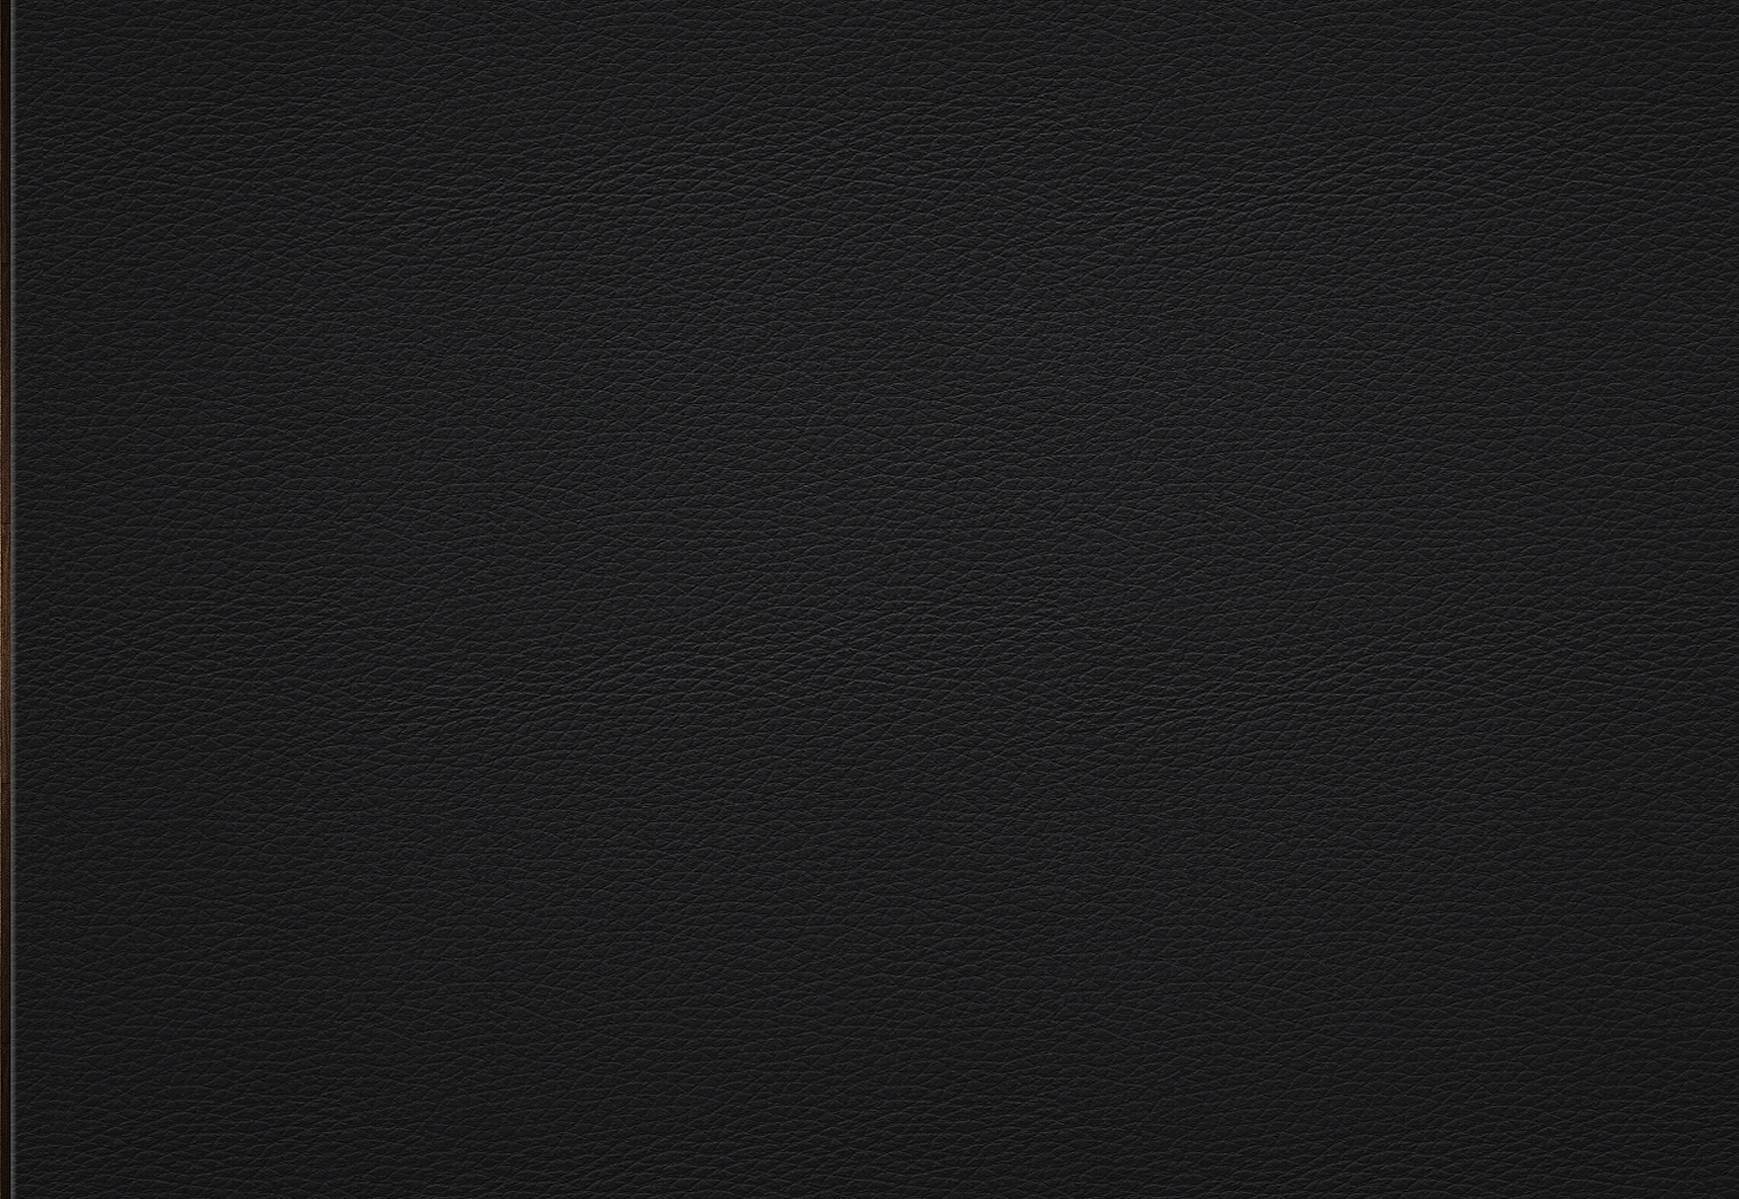
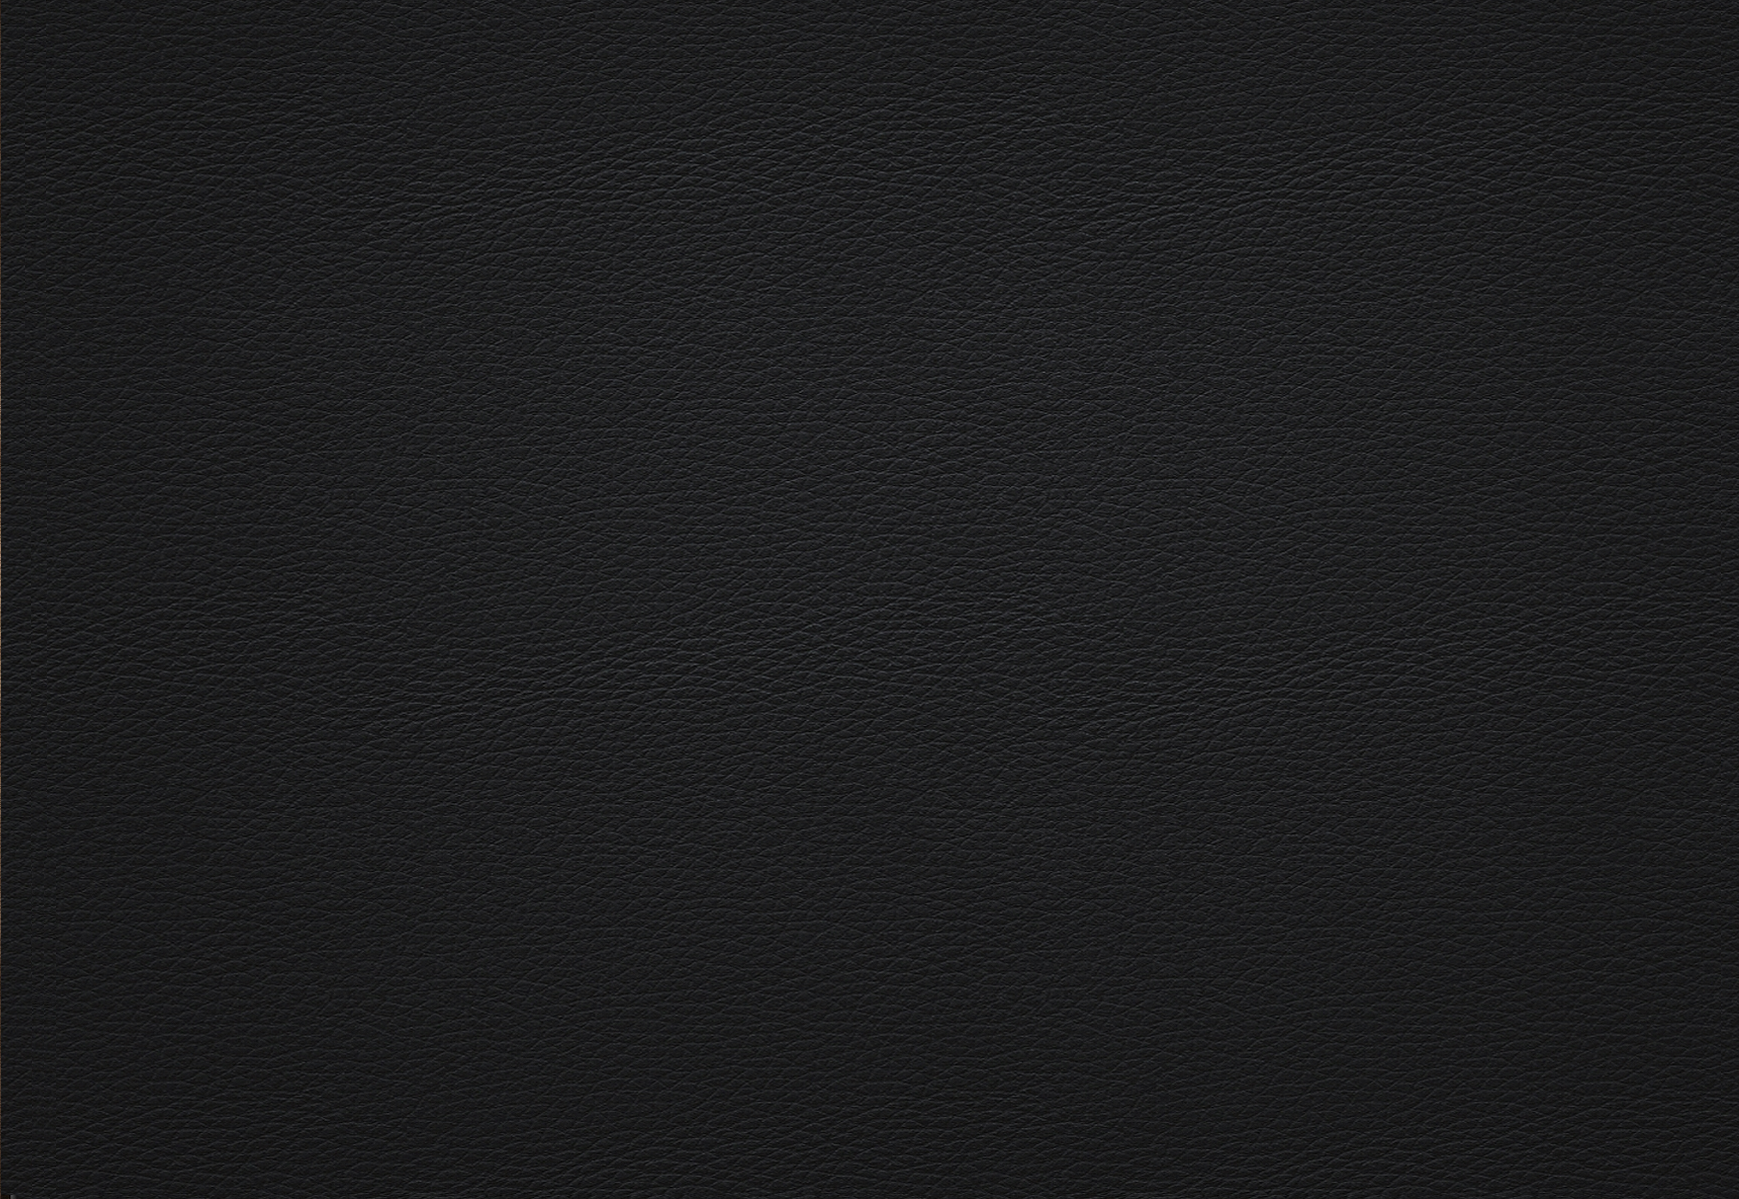
11/04/2022

diff --git a/index.html b/index.html
@@ -1,0 +1,29 @@
+<!DOCTYPE html>
+<html lang="es">
+<head>
+    <meta charset="UTF-8">
+    <meta http-equiv="X-UA-Compatible" content="IE=edge">
+    <meta name="viewport" content="width=device-width, initial-scale=1.0">
+    <link rel="stylesheet" href="/css/index.css">
+    <title>Apuntes Bootcamp Henry</title>
+</head>
+<body>
+    <div class="body">
+        <div class="titulo">Bootcamp Henry !!! 🚀 </div>
+        <div class="cuerpo">
+            <div class="menu">
+            <button class="button">Módulo 0 : Prep - Course</button>
+            <button class="button">Módulo 1 : Foundations</button>
+            <button class="button">Módulo 2 : Front - End</button>
+            <button class="button">Módulo 3 : Back - End</button>
+            <button class="button">Módulo 4 : Base de Datos</button>
+            </div>
+            <div class="notas">
+                <H3 class="Subtitulos">HALF ADDER <i>(Medio sumador)</i></h3>
+                    
+                    Lorem ipsum dolor sit amet consectetur adipisicing elit. Porro deserunt sit fugit commodi eveniet exercitationem similique, recusandae laborum quaerat atque, aperiam aliquid odio ut minima officiis nam sequi aliquam explicabo animi earum non rem! Eos accusantium fugit qui sed corporis, iusto rem eveniet possimus tempora sint tenetur, incidunt tempore beatae, deleniti est consectetur non ipsa! Numquam quaerat eligendi perferendis, laboriosam laudantium magnam? Eius hic quos explicabo deserunt commodi iusto aspernatur pariatur alias facilis, similique quisquam mollitia deleniti quae rerum veritatis ea officiis possimus! Laborum, nobis! Temporibus doloremque rem consectetur ullam officia ab dolorem fuga nemo, ratione illum, eligendi odit aspernatur dolores? Iste, similique laborum. Maiores voluptatem illo cumque expedita sit iste impedit exercitationem culpa deserunt eos quidem aperiam ea tempore, veniam sunt, amet molestiae fugiat quo dolorum odit! Modi, temporibus minus error sint ex numquam quo amet cum corrupti, nesciunt officia, veniam atque. Magni molestias odio minima enim ea, necessitatibus optio ullam quasi! Corrupti, magni voluptatibus! Quo ea, nisi veniam possimus ducimus pariatur ex amet repellat dolores animi repellendus eligendi, iusto consectetur facilis ratione eaque sapiente accusantium nam. Voluptatum voluptates dolore eveniet quaerat ducimus eaque numquam. Vero est quo delectus, ut tenetur voluptate quia eius similique, accusantium deleniti sequi ipsam.      
+            </div>
+        <div class="pie">Gracias!!!!  🌹   XOXOXO</div>
+    </div>
+</body>
+</html>

diff --git a/css/index.css b/css/index.css
@@ -1,0 +1,100 @@
+.body {
+    background-image: url(/scr/Index.jpeg);
+    background-color: rgba(0, 0, 0, 0.055);
+    display: grid;
+    grid-template-rows: 70px 640px 60px;
+    gap: 10px;
+    padding: 0px;
+    background-repeat: no-repeat;
+}
+
+.titulo {
+    font-family: sans-serif;
+    font-weight: bold;
+    margin: auto;
+    text-align: center;
+    font-size: 45px;
+    color: rgba(0, 172, 252, 0.842);
+}
+
+.subtitulos {
+    font-family: sans-serif;
+    font-weight: bold;
+    margin: auto;
+    text-align: center;
+    font-size: 25px;
+    color: #0b4e7a;
+
+}
+
+.cuerpo {
+    display: grid;
+    grid-template-columns: 290px 1175px;
+    border-style: none;
+}
+
+.menu {
+    background: rgba(158, 158, 158, 0);
+    width: 200px;
+    height: 600px;
+    align-content: center;
+    text-align: justify;
+    font-size: 20px;
+    color: rgba(0, 0, 0, 0.849);
+    /*overflow-y: scroll;*/
+    padding-left: 20px;
+    padding-right: 20px;
+    padding-bottom: 20px;
+    word-wrap: break-word;
+    border-radius: 15px;
+}
+.notas {
+    background: rgba(158, 158, 158, 0.856);
+    width: 1024px;
+    height: 600px;
+    align-content: center;
+    text-align: justify;
+    font-size: 20px;
+    color: rgba(0, 0, 0, 0.849);
+    /*overflow-y: scroll;*/
+    padding-left: 20px;
+    padding-right: 20px;
+    padding-bottom: 20px;
+    word-wrap: break-word;
+    border-radius: 15px;
+}
+
+.pie {
+    font-family: sans-serif;
+    font-weight: bold;
+    margin: auto;
+    text-align: center;
+    font-size: 25px;
+    color: rgba(221, 96, 165, 0.39);
+}
+
+.button {
+    width: 200px;
+    height: 50px;
+    font-family: sans-serif;
+    font-weight: bold;
+    font-size: 15px;
+    cursor: pointer;
+    margin: 20px;
+    margin-top: 50px;
+    text-align: center;
+    background-color: #ffee00ce;
+    border: 0px;
+    border-radius: 15px;
+    box-shadow: 0 7px #999;
+}
+
+.button:hover {
+    background-color: #dda8168c
+}
+
+.button:active {
+    background-color: #ffd000;
+    box-shadow: 0 5px #666;
+    transform: translateY(4px);
+}
